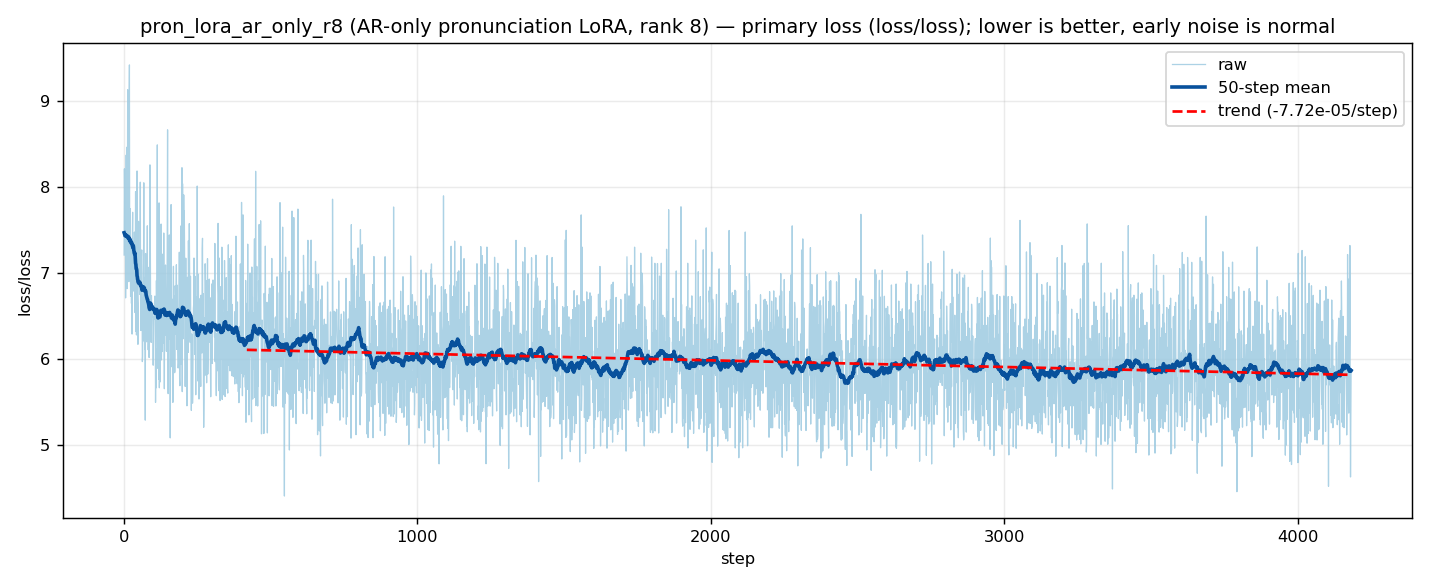
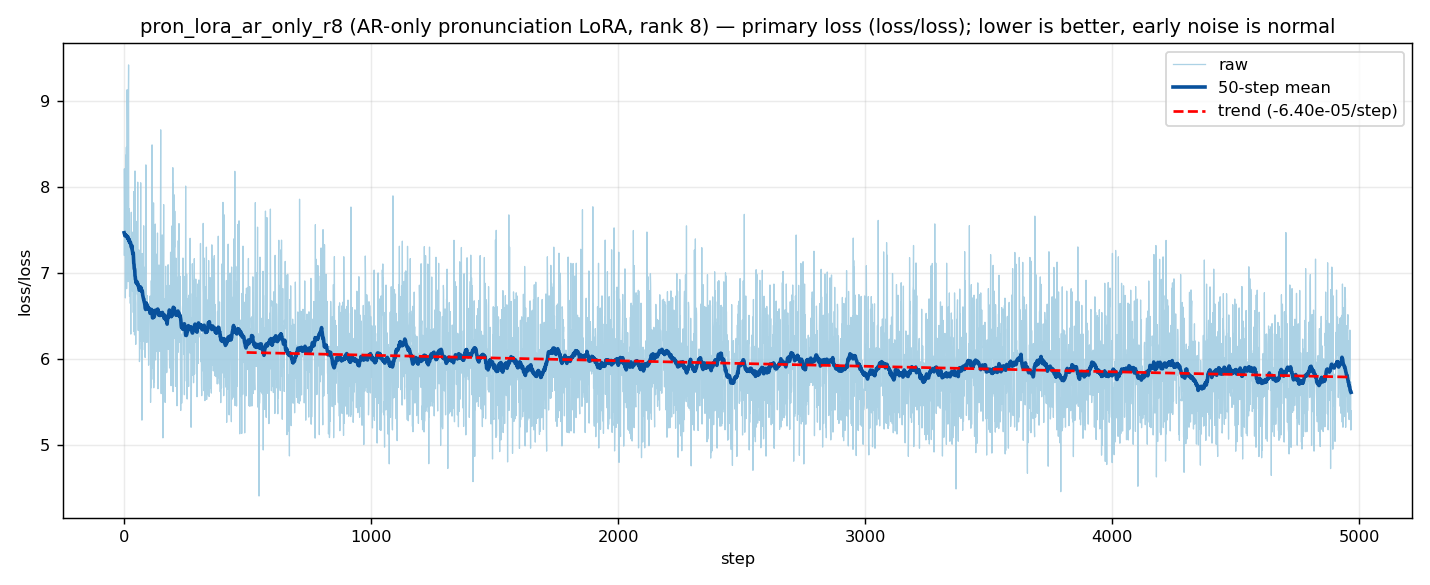
Task 14c: refresh pron_lora_ar_only_r8 training charts/analysis (step 4967/6100)
Regenerated from loss_log.db at step 4967/6100 (81.4%), ~07:20 UTC:
step time median 0.886 s (~1.11 steps/s), ETA ~17 min. loss/loss 7.36->5.89,
loss/ar_ce 6.13->4.45 (still falling), loss/ar_kl 0.21->1.55 (unbroken rise,
bounded, max 2.186@4313). GPU peak 10.5 GB, util p50 22% -- data/CPU-bound.
Checkpoints 1525/3050/4575 local+GCS. Unchanged conclusions; window table
extended through 4501-5000.

diff --git a/TRAINING_ANALYSIS/pron_lora_ar_only_r8/ANALYSIS.md b/TRAINING_ANALYSIS/pron_lora_ar_only_r8/ANALYSIS.md
@@ -1,7 +1,7 @@
 # Training analysis — `pron_lora_ar_only_r8` (AR-only pronunciation LoRA)
 
-**IN PROGRESS** — snapshot generated **2026-09-24 ~07:00 UTC** at logged
-**step 4194 / 6100 (68.8%)**, ~1 epoch. `run.py` healthy (no traceback). Charts
+**IN PROGRESS** — snapshot generated **2026-09-24 ~07:20 UTC** at logged
+**step 4967 / 6100 (81.4%)**, ~1 epoch. `run.py` healthy (no traceback). Charts
 produced by the (now parametrized) `TRAINING_ANALYSIS/generate_plots.py`:
 
 ```bash
@@ -28,12 +28,14 @@ python TRAINING_ANALYSIS/generate_plots.py \
 | Dataset | `/content/pron_dataset/train` — 6,100 pairs, **6,099 usable** (one mp3 failed to decode at cache time); 6,100 steps ≈ 1.0002 epoch |
 | GPU | Colab **A100-SXM4-80GB** |
 | Caching | 6,100 clips in **12:26** before step 1 (expected, not a stall) |
-| Steps at snapshot | **4194 / 6100 (68.8%)** |
-| Step time | **median 0.885 s** (p10 0.871 / p90 0.904) → ~**1.12 steps/s** |
+| Steps at snapshot | **4967 / 6100 (81.4%)** |
+| Step time | **median 0.886 s** (p10 0.872 / p90 0.917) → ~**1.11 steps/s** |
+| ETA | ~**17 min** at the recent rate |
 | Samples | **none** (`train.disable_sampling: true`) — grey verticals are checkpoint saves, not sample pauses |
-| Checkpoints so far | `…_000001525` (06:19), `…_000003050` (06:41); next 4575, then 6100 |
+| Checkpoints so far | `…_000001525` (06:19), `…_000003050` (06:41), `…_000004575` (07:04); next 6100, then final no-step |
 | GPU | peak **10,794 MiB (10.5 GB)** of 80 GB; util p50 **22 %**; power mean 79 W; temp ≤ 35 °C |
 | Health | no tracebacks; loss descending; VRAM flat |
+| Backup | local + GCS (`…/pron_lora_ar_only_r8/output/`) after the 2026-09-24 settle fix (`DECISIONS.md`) |
 
 ## Charts
 
@@ -55,11 +57,12 @@ python TRAINING_ANALYSIS/generate_plots.py \
 | 2501–3000 | 5.939 | 4.538 | 1.435 | 4.825 |
 | 3001–3500 | 5.868 | 4.475 | 1.454 | 4.766 |
 | 3501–4000 | 5.885 | 4.478 | 1.463 | 4.771 |
-| 4001–4500 | 5.862 | 4.447 | 1.507 | 4.749 |
+| 4001–4500 | 5.849 | 4.435 | 1.497 | 4.734 |
+| 4501–5000 | 5.830 | 4.402 | 1.522 | 4.707 |
 
-First-50 vs last-50: `loss/loss` 7.36 → **5.95** (−1.41), `loss/ar_ce` 6.13 →
-**4.50** (−1.62), `loss/ar_kl` 0.21 → **1.52** (+1.32),
-`additional_model_loss` 6.17 → **4.81** (−1.36).
+First-50 vs last-50: `loss/loss` 7.36 → **5.89** (−1.47), `loss/ar_ce` 6.13 →
+**4.45** (−1.68), `loss/ar_kl` 0.21 → **1.55** (+1.35),
+`additional_model_loss` 6.17 → **4.76** (−1.41).
 
 Metric keys present: `additional_model_loss`, `learning_rate`, `loss/ar_ce`,
 `loss/ar_kl`, `loss/loss` — same five as v1/v2, **no `nar_flow`** key.
@@ -70,34 +73,38 @@ Metric keys present: `additional_model_loss`, `learning_rate`, `loss/ar_ce`,
    ~200 steps (7.4 → ~6.2) then declines slowly to ~5.9. The 50-step trend is
    **−7.7e−5/step** at the snapshot. No tracebacks, no OOM, VRAM flat at ~10.5 GB.
 2. **`loss/ar_ce` — the term that actually trains this adapter — is still
-   falling**: 5.20 (1–500) → 4.45 (4001–4500). This is the AR next-token loss on
-   the recitation text; it is the only thing the adapter is optimising (NAR is
-   excluded and its flow loss is detached). The curve is flattening but not flat,
-   so the remaining ~1,900 steps still carry (small) signal.
+   falling**: 5.20 (1–500) → **4.40** (4501–5000). This is the AR next-token
+   loss on the recitation text; it is the only thing the adapter is optimising
+   (NAR is excluded and its flow loss is detached). The curve is flattening but
+   not flat, so the remaining ~1,100 steps still carry (small) signal.
 3. **`loss/ar_kl` rises monotonically the whole way, exactly as in v1 and v2**:
-   0.21 → 1.52 last-50, windowed 0.98 → 1.51, max 2.13. It is the trust-region
-   KL(base ‖ lora) on AR distributions and it is **bounded** — no blow-up — but
-   the unbroken upward drift is the same pattern the whole-song runs showed. If
-   the pron adapter turns out to over-drift the AR (audible on the offline eval),
-   `ar_kl_weight` / fewer steps / lower LR is the first single-variable lever.
+   0.21 → 1.55 last-50, windowed 0.98 → 1.52, max **2.186** at step 4313. It is
+   the trust-region KL(base ‖ lora) on AR distributions and it is **bounded** —
+   no blow-up — but the unbroken upward drift is the same pattern the whole-song
+   runs showed. If the pron adapter turns out to over-drift the AR (audible on
+   the offline eval), `ar_kl_weight` / fewer steps / lower LR is the first
+   single-variable lever.
 4. **`loss/loss` here is AR-dominated** (`additional_model_loss` ≈ `ar_ce`), as
    expected for an AR-only adapter — the NAR/flow path contributes ~no gradient
    (A4 in `PRON_LORA_VERIFICATION.md`). Do not read `loss/loss` as audio quality.
-5. **Diminishing returns.** Per-500 improvements collapsed: −0.41, −0.09, −0.05,
-   −0.02, −0.01, −0.07, +0.02, −0.02. The last ~2,000 steps moved `loss/loss` by
-   well under 0.1. Late steps mostly refine `ar_ce` and let `ar_kl` keep drifting.
+5. **Diminishing returns.** Per-500 improvements collapsed after the first
+   window: −0.41, −0.09, −0.05, −0.02, −0.01, −0.07, +0.02, −0.04, −0.02. The
+   last ~2,500 steps moved `loss/loss` by well under 0.15 while `ar_kl` kept
+   drifting up. Late steps mostly refine `ar_ce` (still slowly improving) and let
+   the KL anchor grow.
 6. **The A100 is not the bottleneck.** Median util **22 %**, power mean 79 W,
-   VRAM only 10.5 GB of 80 GB, yet step time is **0.885 s** — barely faster than
+   VRAM only 10.5 GB of 80 GB, yet step time is **0.886 s** — barely faster than
    the L4 smoke's ~1.0 s/step (which was warmup-inflated). This run is
    data/CPU-bound (short-clip VAE/audio path), not compute-bound; an A100 is
-   over-provisioned for it. Full epoch ≈ `6100 × 0.885 s ≈ 1.5 h` of training.
+   over-provisioned for it. Full epoch ≈ `6100 × 0.886 s ≈ 1.5 h` of training.
 7. **Early transients, not trends.** Max loss at step 19 (9.42) is warmup; the
    apparent minima at steps 547 (`loss/loss` 4.41) and 2546 (`ar_ce` 2.97) are
    single-batch dips, not a regime change.
 
 ## Caveats
 
-- **Mid-run snapshot.** Numbers will move; regenerate after step 6100.
+- **Mid-run snapshot (81.4%).** Numbers will move slightly; regenerate after
+  step 6100.
 - **No validation split** and **no samples** (`disable_sampling: true`), so this
   says nothing about whether the articulation actually improves. That requires
   the offline AR-loss replay over the 180 `val` pairs described in
